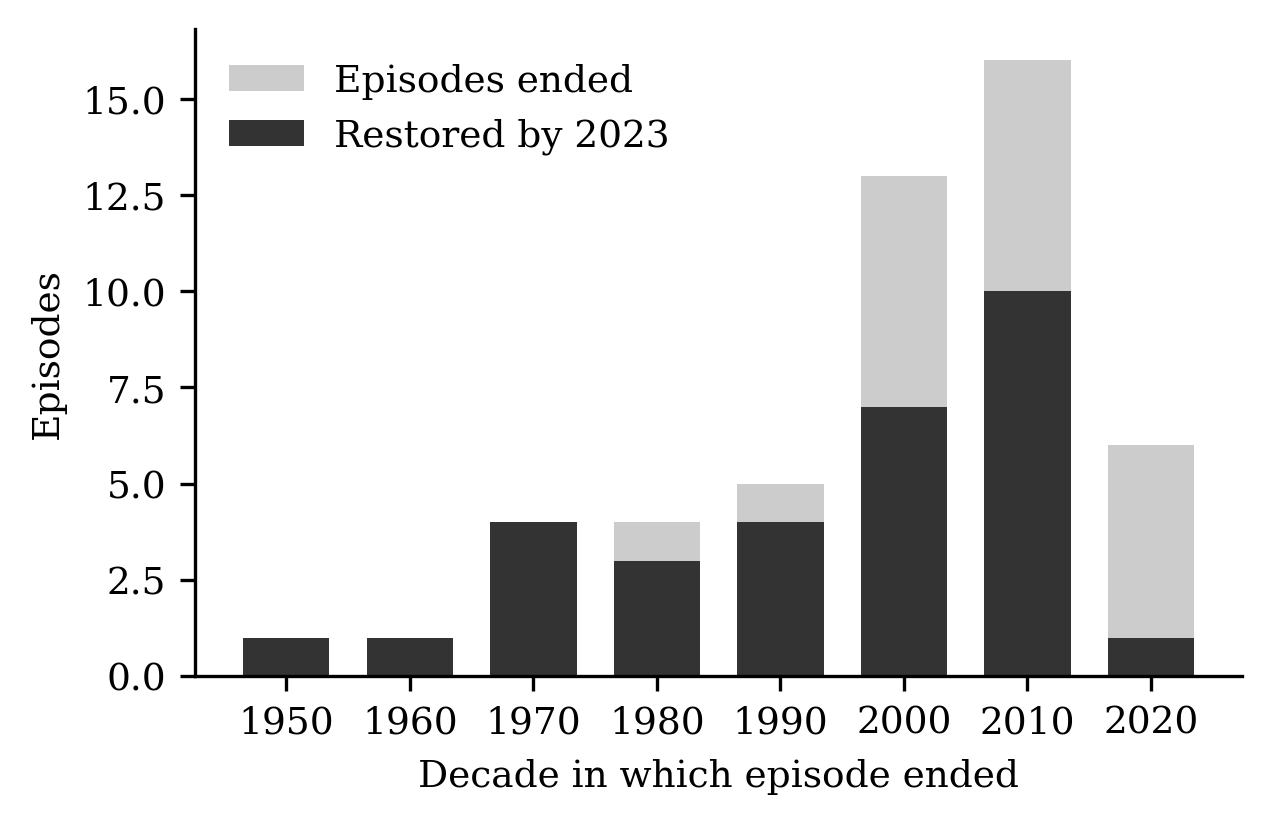
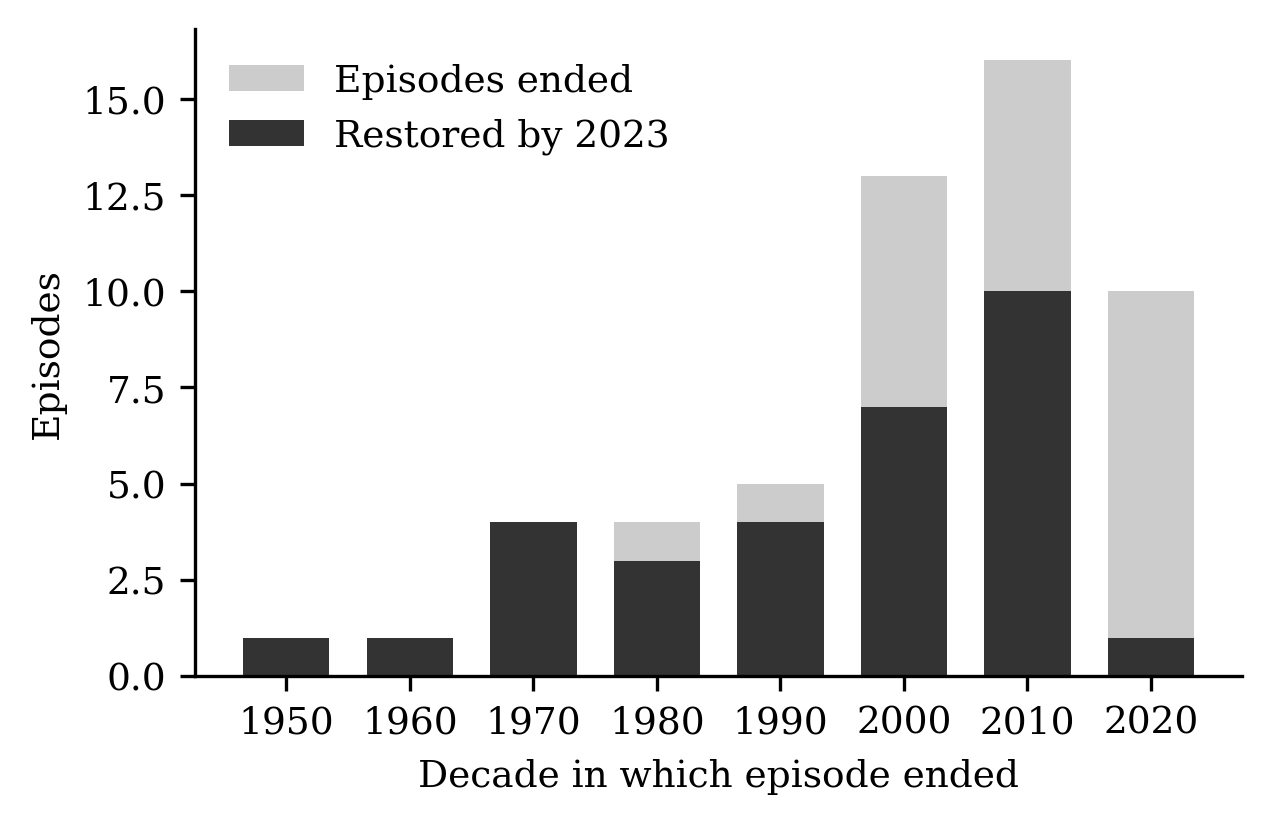
Episodes ending 2022 enter the at-risk set as the design specifies; regenerate results, grid, figures; drafts of all chapters

Changed region(s): [[0.8592, 0.3337, 0.9512, 0.5461]]

diff --git a/analysis/episodes.py b/analysis/episodes.py
@@ -51,7 +51,7 @@ def build(risk_on="restoration", suffix=""):
             ty = seg.edi.idxmin()
             trough, trough_hi = seg.edi.min(), g.loc[ty, "edi_hi"]
             outcome = rows.aut_ep_outcome.dropna().max()
-            cens = bool(rows.aut_ep_censored.max() == 1) or outcome == 6 or E >= LAST - 1
+            cens = bool(rows.aut_ep_censored.max() == 1) or outcome == 6 or E >= LAST  # design: censored only if ERT censors it or no follow-up year exists
             # next autocratization episode after E (ends the risk period)
             nxt = g[(g.index > E) & (g.aut_ep == 1) & (g.aut_ep_id != eid)]
             stop = int(nxt.index.min()) - 1 if len(nxt) else LAST

diff --git a/results/results_extended.md b/results/results_extended.md
@@ -2,26 +2,26 @@ Sample: EXTENDED, all episodes ending 1914-2022 (not the pre-specified test)
 # Results (generated by analysis/models.py)
 
 ## Descriptives
-Backsliding episodes (ERT prch, start>=1900): 99; ended by 2022 (at risk): 65; censored/ongoing: 34; countries: 76
+Backsliding episodes (ERT prch, start>=1900): 99; ended by 2022 (at risk): 69; censored/ongoing: 30; countries: 76
 Outcomes (all episodes): {1.0: 71, 2.0: 1, 3.0: 1, 4.0: 13, 6.0: 13}  (1 breakdown, 2 preempted, 4 averted, 6 censored)
-Restored (primary): 45 of 65
-  alt rest_tol02: 41 of 65
-  alt rest_tol10: 50 of 65
-  alt rest_nocred: 45 of 65
-  alt rest_half: 51 of 65
-  alt uturn: 45 of 65
-  breakdown=False: n=12, restored=7
-  breakdown=True: n=53, restored=38
-Median depth (EDI): 0.289; median duration (years): 5.0
-By era of end: {1900: {'n': 1, 'restored': 1}, 1925: {'n': 14, 'restored': 13}, 1950: {'n': 4, 'restored': 4}, 1975: {'n': 11, 'restored': 9}, 2000: {'n': 35, 'restored': 18}}
-Post-1990 ended episodes: 40, restored 22
+Restored (primary): 45 of 69
+  alt rest_tol02: 41 of 69
+  alt rest_tol10: 50 of 69
+  alt rest_nocred: 45 of 69
+  alt rest_half: 51 of 69
+  alt uturn: 46 of 69
+  breakdown=False: n=14, restored=7
+  breakdown=True: n=55, restored=38
+Median depth (EDI): 0.286; median duration (years): 5.0
+By era of end: {1900: {'n': 1, 'restored': 1}, 1925: {'n': 14, 'restored': 13}, 1950: {'n': 4, 'restored': 4}, 1975: {'n': 11, 'restored': 9}, 2000: {'n': 39, 'restored': 18}}
+Post-1990 ended episodes: 44, restored 22
 
 ## RB1 Asymmetry
-KM share restored within 1/3/5/10/20 years of end: 0.108 / 0.239 / 0.346 / 0.684 / 0.770
+KM share restored within 1/3/5/10/20 years of end: 0.101 / 0.234 / 0.342 / 0.682 / 0.768
 Median years end->restoration among restored: 6.0 (IQR 3-9); median episode duration among restored: 3.0; all ended: 5.0
 Criterion (a) <half restored within 10y: False; (b) restoration slower than decline: True -> RB1 partially supported
-  breakdown=False: KM restored within 10y 0.833; median ttr restored 3.0
-  breakdown=True: KM restored within 10y 0.659; median ttr restored 6.0
+  breakdown=False: KM restored within 10y 0.825; median ttr restored 3.0
+  breakdown=True: KM restored within 10y 0.658; median ttr restored 6.0
 Vol. 2 spells: 53 non-provisional, 12 recovered; median duration 9.0
 
 ## Baseline hazard model
@@ -36,13 +36,13 @@ Vol. 2 spells: 53 non-provisional, 12 recovered; median duration 9.0
 | log_t | 0.084 | 0.190 | [-0.287, 0.456] | 0.657 |
 
 ## RB2 Demand ebb
-dAGP SD in risk set: 0.554; years with dAGP: 116; events among them: 9
+dAGP SD in risk set: 0.550; years with dAGP: 118; events among them: 9
 
 **RB2 primary: dAGP (z)** (N = 96 country-years, 7 events, 14 countries)
 | term | coef | SE | 95% CI | p |
 |---|---|---|---|---|
 | const | -2.982 | 3.391 | [-9.627, 3.664] | 0.379 |
-| dagp_z | 0.656 | 1.010 | [-1.323, 2.635] | 0.516 |
+| dagp_z | 0.651 | 1.002 | [-1.313, 2.616] | 0.516 |
 | log_gdp | 0.010 | 0.969 | [-1.890, 1.910] | 0.992 |
 | depth | -1.751 | 6.142 | [-13.790, 10.287] | 0.776 |
 | breakdown | 0.006 | 0.989 | [-1.932, 1.943] | 0.995 |
@@ -58,12 +58,12 @@ dAGP SD in risk set: 0.554; years with dAGP: 116; events among them: 9
 | breakdown | 0.573 | 0.988 | [-1.363, 2.509] | 0.562 |
 | log_t | 0.380 | 0.374 | [-0.354, 1.113] | 0.310 |
 
-**RB2 bivariate dAGP** (N = 116 country-years, 9 events, 18 countries)
+**RB2 bivariate dAGP** (N = 118 country-years, 9 events, 20 countries)
 | term | coef | SE | 95% CI | p |
 |---|---|---|---|---|
-| const | -3.561 | 1.682 | [-6.857, -0.265] | 0.034 |
-| dagp_z | 0.939 | 0.953 | [-0.929, 2.806] | 0.325 |
-| log_t | 0.631 | 0.420 | [-0.193, 1.455] | 0.133 |
+| const | -3.633 | 1.700 | [-6.965, -0.302] | 0.033 |
+| dagp_z | 0.901 | 0.906 | [-0.875, 2.676] | 0.320 |
+| log_t | 0.659 | 0.426 | [-0.175, 1.494] | 0.122 |
 
 RB2 on Vol. 2 spells: recovered vs not, demand change at onset (from Vol. 2 design): see QE7; AGP at recovery checked below
 
@@ -91,7 +91,7 @@ RB2 on Vol. 2 spells: recovered vs not, demand change at onset (from Vol. 2 desi
 
 ## RB4 Sequence
 Episodes with >=2 lost and >=2 restored pathways: 34; first restored: {'tie': 16, 'diagonal': 6, 'vertical': 6, 'horizontal': 6}
-Pathways lost (ended episodes): {'vertical': 57, 'horizontal': 50, 'diagonal': 54}; restored: {'vertical': 36, 'horizontal': 33, 'diagonal': 33}
+Pathways lost (ended episodes): {'vertical': 60, 'horizontal': 54, 'diagonal': 56}; restored: {'vertical': 36, 'horizontal': 34, 'diagonal': 33}
 Vertical-first 6/34 = 0.176; binomial p (H1 > 1/3) = 0.987; modal first = tie
 
 ## RB5 Institutional anchors

diff --git a/results/results.md b/results/results.md
@@ -2,26 +2,26 @@ Sample: PRE-SPECIFIED (DESIGN.md): episodes ending 1950-2022; hazard models incl
 # Results (generated by analysis/models.py)
 
 ## Descriptives
-Backsliding episodes (ERT prch, start>=1900): 84; ended by 2022 (at risk): 50; censored/ongoing: 34; countries: 66
+Backsliding episodes (ERT prch, start>=1900): 84; ended by 2022 (at risk): 54; censored/ongoing: 30; countries: 66
 Outcomes (all episodes): {1.0: 57, 2.0: 1, 3.0: 1, 4.0: 12, 6.0: 13}  (1 breakdown, 2 preempted, 4 averted, 6 censored)
-Restored (primary): 31 of 50
-  alt rest_tol02: 27 of 50
-  alt rest_tol10: 36 of 50
-  alt rest_nocred: 31 of 50
-  alt rest_half: 37 of 50
-  alt uturn: 34 of 50
-  breakdown=False: n=11, restored=6
-  breakdown=True: n=39, restored=25
-Median depth (EDI): 0.232; median duration (years): 5.0
-By era of end: {1950: {'n': 4, 'restored': 4}, 1975: {'n': 11, 'restored': 9}, 2000: {'n': 35, 'restored': 18}}
-Post-1990 ended episodes: 40, restored 22
+Restored (primary): 31 of 54
+  alt rest_tol02: 27 of 54
+  alt rest_tol10: 36 of 54
+  alt rest_nocred: 31 of 54
+  alt rest_half: 37 of 54
+  alt uturn: 35 of 54
+  breakdown=False: n=13, restored=6
+  breakdown=True: n=41, restored=25
+Median depth (EDI): 0.223; median duration (years): 5.0
+By era of end: {1950: {'n': 4, 'restored': 4}, 1975: {'n': 11, 'restored': 9}, 2000: {'n': 39, 'restored': 18}}
+Post-1990 ended episodes: 44, restored 22
 
 ## RB1 Asymmetry
-KM share restored within 1/3/5/10/20 years of end: 0.140 / 0.272 / 0.344 / 0.681 / 0.821
+KM share restored within 1/3/5/10/20 years of end: 0.130 / 0.263 / 0.336 / 0.677 / 0.819
 Median years end->restoration among restored: 5.0 (IQR 2-8); median episode duration among restored: 4.0; all ended: 5.0
 Criterion (a) <half restored within 10y: False; (b) restoration slower than decline: True -> RB1 partially supported
-  breakdown=False: KM restored within 10y 0.782; median ttr restored 2.0
-  breakdown=True: KM restored within 10y 0.657; median ttr restored 6.0
+  breakdown=False: KM restored within 10y 0.769; median ttr restored 2.0
+  breakdown=True: KM restored within 10y 0.655; median ttr restored 6.0
 Vol. 2 spells: 53 non-provisional, 12 recovered; median duration 9.0
 
 ## Baseline hazard model
@@ -36,13 +36,13 @@ Vol. 2 spells: 53 non-provisional, 12 recovered; median duration 9.0
 | log_t | 0.209 | 0.299 | [-0.376, 0.794] | 0.484 |
 
 ## RB2 Demand ebb
-dAGP SD in risk set: 0.554; years with dAGP: 116; events among them: 9
+dAGP SD in risk set: 0.550; years with dAGP: 118; events among them: 9
 
 **RB2 primary: dAGP (z)** (N = 96 country-years, 7 events, 14 countries)
 | term | coef | SE | 95% CI | p |
 |---|---|---|---|---|
 | const | -2.982 | 3.391 | [-9.627, 3.664] | 0.379 |
-| dagp_z | 0.656 | 1.010 | [-1.323, 2.635] | 0.516 |
+| dagp_z | 0.651 | 1.002 | [-1.313, 2.616] | 0.516 |
 | log_gdp | 0.010 | 0.969 | [-1.890, 1.910] | 0.992 |
 | depth | -1.751 | 6.142 | [-13.790, 10.287] | 0.776 |
 | breakdown | 0.006 | 0.989 | [-1.932, 1.943] | 0.995 |
@@ -58,12 +58,12 @@ dAGP SD in risk set: 0.554; years with dAGP: 116; events among them: 9
 | breakdown | 0.573 | 0.988 | [-1.363, 2.509] | 0.562 |
 | log_t | 0.380 | 0.374 | [-0.354, 1.113] | 0.310 |
 
-**RB2 bivariate dAGP** (N = 116 country-years, 9 events, 18 countries)
+**RB2 bivariate dAGP** (N = 118 country-years, 9 events, 20 countries)
 | term | coef | SE | 95% CI | p |
 |---|---|---|---|---|
-| const | -3.561 | 1.682 | [-6.857, -0.265] | 0.034 |
-| dagp_z | 0.939 | 0.953 | [-0.929, 2.806] | 0.325 |
-| log_t | 0.631 | 0.420 | [-0.193, 1.455] | 0.133 |
+| const | -3.633 | 1.700 | [-6.965, -0.302] | 0.033 |
+| dagp_z | 0.901 | 0.906 | [-0.875, 2.676] | 0.320 |
+| log_t | 0.659 | 0.426 | [-0.175, 1.494] | 0.122 |
 
 RB2 on Vol. 2 spells: recovered vs not, demand change at onset (from Vol. 2 design): see QE7; AGP at recovery checked below
 
@@ -91,7 +91,7 @@ RB2 on Vol. 2 spells: recovered vs not, demand change at onset (from Vol. 2 desi
 
 ## RB4 Sequence
 Episodes with >=2 lost and >=2 restored pathways: 20; first restored: {'tie': 7, 'horizontal': 6, 'diagonal': 5, 'vertical': 2}
-Pathways lost (ended episodes): {'vertical': 43, 'horizontal': 35, 'diagonal': 39}; restored: {'vertical': 23, 'horizontal': 19, 'diagonal': 19}
+Pathways lost (ended episodes): {'vertical': 46, 'horizontal': 39, 'diagonal': 41}; restored: {'vertical': 23, 'horizontal': 20, 'diagonal': 19}
 Vertical-first 2/20 = 0.100; binomial p (H1 > 1/3) = 0.997; modal first = tie
 
 ## RB5 Institutional anchors

diff --git a/results/cases_prespec.md b/results/cases_prespec.md
@@ -1,9 +1,8 @@
-# Case-level counts, PRE-SPECIFIED sample (episodes ending 1950-2022; 50 ended, 31 restored)
+# Case-level counts, PRE-SPECIFIED sample (episodes ending 1950-2022; 54 ended and at risk, 31 restored)
 
-- Restoration rate per 100 at-risk country-years: with a turnover election since episode end 19.0 (16/84); without 6.6 (15/227). (Fig. 7.1)
+- Restoration rate per 100 at-risk country-years: with a turnover election since episode end 18.8 (16/85); without 6.5 (15/230). (Fig. 7.1)
 - Of 31 restorations: turnover election in the restoration year 5; turnover election earlier in the recovery period 12; either 16.
-- Of 19 unrestored ended episodes: 8 had a turnover election during follow-up.
-- Mean judicial constraints at episode end: restored 0.573; unrestored 0.529.
+- Of 23 unrestored ended episodes: 9 had a turnover election during follow-up.
+- Mean judicial constraints at episode end: restored 0.573; unrestored 0.543.
 - Relapsed within 10 years (13): Argentina (1966-1967, restored 1974), Armenia (1993-1997, restored 2019), Burkina Faso (2014-2015, restored 2016), Fiji (1987-1988, restored 1993), Fiji (2000-2001, restored 2003), South Korea (2008-2014, restored 2017), Moldova (1998-2006, restored 2010), Moldova (2013-2017, restored 2020), Madagascar (1997-2002, restored 2008), Niger (2009-2010, restored 2011), Suriname (1975, restored 1976), Suriname (1980-1981, restored 1989), Ukraine (1997-2000, restored 2006).
-- Unrestored ended (19): Benin (2018-2021), Bangladesh (2002-2007), Bosnia and Herzegovina (2004-2007), Belarus (1994-2001), Bolivia (2006-2020), Brazil (2015-2019), Ghana (2013-2021), Sri Lanka (1970-1989), Mali (2008-2013), Niger (1996), Philippines (2001-2005), Papua New Guinea (2007-2013), Poland (2016-2021), Palestine/West Bank (2006-2008), Slovenia (2012-2021), Thailand (2003-2007), Türkiye (2005-2017), Ukraine (2010-2014), Venezuela (1998-2018).
-- Restored episodes ending 1950-2022 (31) are listed with years in results/cases.md (rows with end >= 1950 and a restoration year).
+- Unrestored ended (23): Benin (2018-2021), Bangladesh (2002-2007), Bosnia and Herzegovina (2004-2007), Belarus (1994-2001), Bolivia (2006-2020), Botswana (2015-2022), Brazil (2015-2019), Ghana (2013-2021), Guatemala (2018-2022), Guinea-Bissau (2022), Mali (2008-2013), Niger (1996), Palestine/West Bank (2006-2008), Papua New Guinea (2007-2013), Philippines (2001-2005), Poland (2016-2021), Slovenia (2012-2021), Sri Lanka (1970-1989), Thailand (2003-2007), Tunisia (2014-2022), Türkiye (2005-2017), Ukraine (2010-2014), Venezuela (1998-2018). The four ending in 2022 (Botswana, Guatemala, Guinea-Bissau, Tunisia) have a single at-risk year (2023).

diff --git a/results/robustness.md b/results/robustness.md
@@ -12,7 +12,7 @@
 | Extended sample, no decade control | 0.17 [-0.84, 1.17] (7/96) | 1.46 [0.51, 2.41] (38/427) | 1.44 [0.22, 2.66] (38/427) | 0.50 [-2.42, 3.42] (22/255) | 0.43 [0.12, 0.75] (37/422) |
 | Episodes ending 1990+ | 0.68 [-1.38, 2.75] (7/96) | 0.87 [-0.46, 2.20] (18/185) | 3.62 [0.76, 6.49] (18/185) | 1.12 [-2.70, 4.94] (17/173) | 0.47 [-0.15, 1.10] (18/185) |
 | No decade control | 0.17 [-0.84, 1.17] (7/96) | 1.16 [0.12, 2.21] (27/264) | 2.48 [0.78, 4.18] (27/264) | 0.53 [-2.45, 3.51] (19/191) | 0.31 [-0.13, 0.76] (27/264) |
-| No GDP control | 0.94 [-0.98, 2.87] (9/116) | 1.38 [0.40, 2.36] (31/311) | 2.83 [0.72, 4.95] (31/311) | 0.42 [-2.73, 3.56] (23/223) | 0.30 [-0.16, 0.75] (31/309) |
+| No GDP control | 0.93 [-0.95, 2.81] (9/118) | 1.37 [0.39, 2.35] (31/315) | 2.84 [0.74, 4.94] (31/315) | 0.50 [-2.66, 3.66] (23/225) | 0.31 [-0.13, 0.75] (31/313) |
 | GDP carried forward | 0.89 [-1.07, 2.85] (8/110) | 1.42 [0.43, 2.40] (30/285) | 2.67 [0.48, 4.86] (30/285) | 0.76 [-2.89, 4.41] (22/212) | 0.40 [-0.08, 0.87] (30/283) |
 | Breakdown episodes only | 1.05 [-1.03, 3.12] (5/74) | 1.19 [-0.06, 2.43] (23/235) | 2.55 [-0.09, 5.20] (23/235) | -0.34 [-4.17, 3.49] (15/162) | 0.18 [-0.39, 0.75] (23/235) |
 | Non-breakdown only | n/a | n/a | n/a | n/a | n/a |

diff --git a/results/exploratory_mobilization.md b/results/exploratory_mobilization.md
@@ -1,9 +1,7 @@
-  mlefit = super().fit(
-## PRE-SPECIFIED sample (episodes ending 1950-2022), decade dummies: N=264, events=27
+# Exploratory (not pre-specified): within- vs between-episode lagged v2cademmob; base controls + decade dummies
+## PRE-SPECIFIED (episodes ending 1950-2022): N=264, events=27
 - mob_within: 0.466 [-0.126, 1.058] p=0.123
 - mob_mean: 0.133 [-0.610, 0.875] p=0.727
-## EXTENDED sample (1914-2022), decade dummies: N=422, events=37
+## EXTENDED (1914-2022): N=422, events=37
 - mob_within: 0.605 [0.210, 0.999] p=0.003
 - mob_mean: 0.163 [-0.461, 0.786] p=0.609
-
-(Exploratory, not pre-specified: within-episode deviation vs. episode mean of lagged v2cademmob.)
